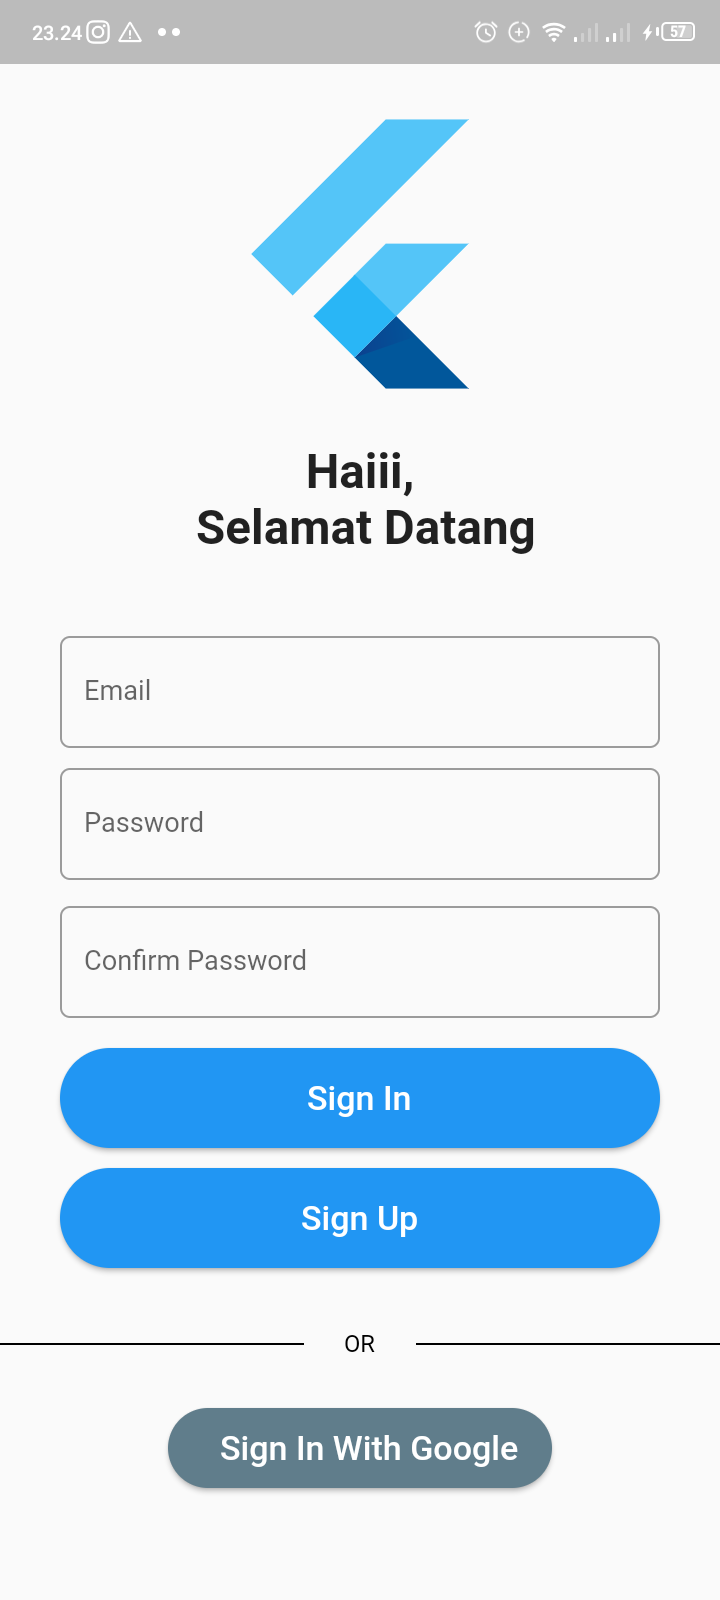
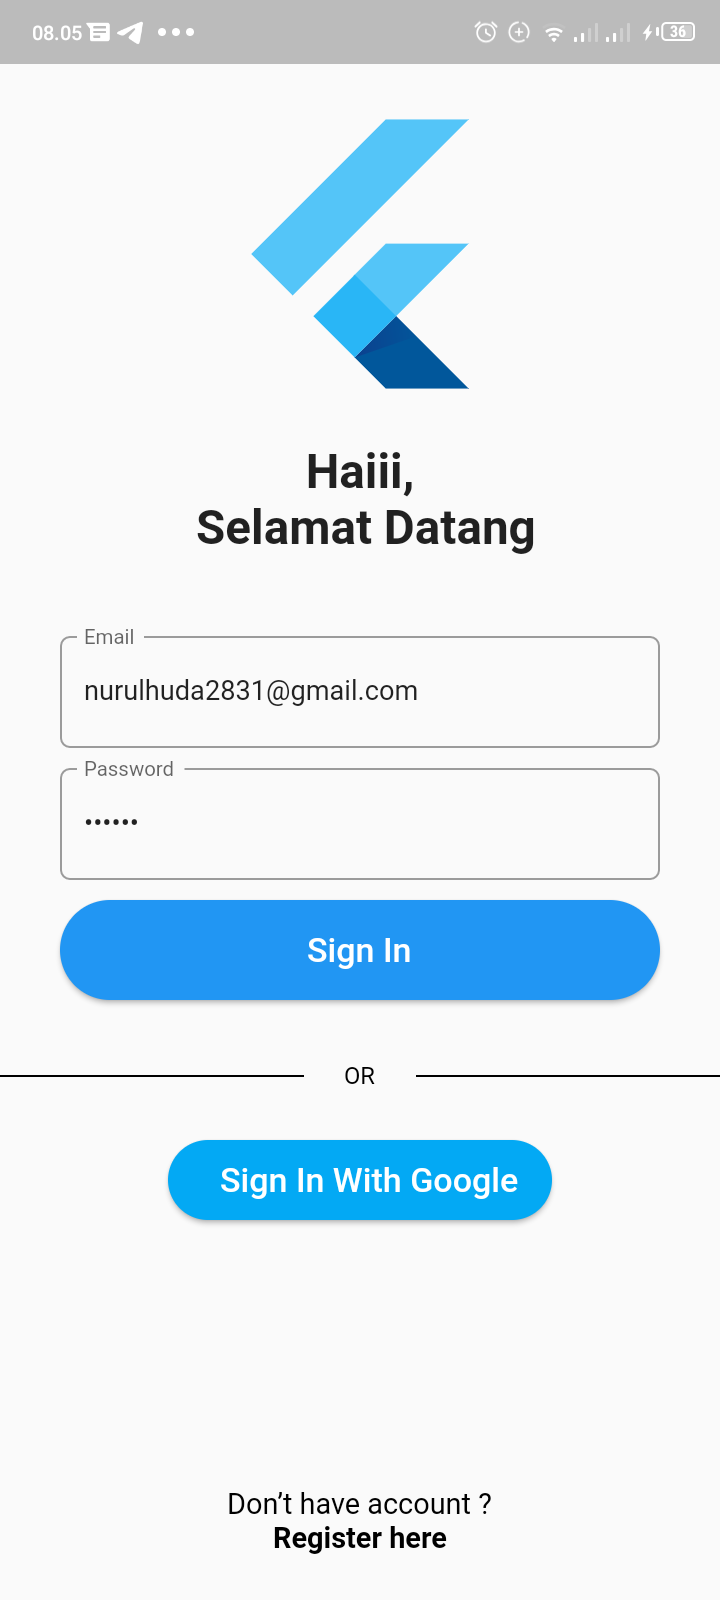
update assets

diff --git a/lib/register_page.dart b/lib/register_page.dart
@@ -1,0 +1,153 @@
+import 'package:firebase/login_page.dart';
+import 'package:flutter/material.dart';
+import 'package:firebase/auth.dart';
+import 'package:firebase/home_screen.dart';
+
+class RegisterPage extends StatefulWidget {
+  const RegisterPage({Key? key}) : super(key: key);
+
+  @override
+  State<RegisterPage> createState() => _RegisterPageState();
+}
+
+class _RegisterPageState extends State<RegisterPage> {
+  TextEditingController emailController = TextEditingController(text: "");
+  TextEditingController passwordController = TextEditingController(text: "");
+
+  @override
+  Widget build(BuildContext context) {
+    return Scaffold(
+      body: ListView(
+        children: [
+          Column(
+            mainAxisSize: MainAxisSize.max,
+            mainAxisAlignment: MainAxisAlignment.center,
+            children: <Widget>[
+              const SizedBox(height: 20),
+              const FlutterLogo(size: 150),
+              const SizedBox(height: 20),
+              const Text(
+                'Haiii,\n Selamat Datang',
+                textAlign: TextAlign.center,
+                style: TextStyle(fontSize: 28, fontWeight: FontWeight.bold),
+              ),
+              const SizedBox(height: 20),
+              Container(
+                alignment: Alignment.center,
+                margin: const EdgeInsets.only(left: 30, right: 30, top: 20),
+                child: TextFormField(
+                  decoration: InputDecoration(
+                    labelText: "Email",
+                    border: OutlineInputBorder(
+                        borderRadius: BorderRadius.circular(5.0)),
+                  ),
+                  controller: emailController,
+                ),
+              ),
+              Container(
+                alignment: Alignment.center,
+                margin: const EdgeInsets.only(
+                    left: 30, right: 30, top: 10, bottom: 10),
+                child: TextFormField(
+                  decoration: InputDecoration(
+                    labelText: "Password",
+                    border: OutlineInputBorder(
+                        borderRadius: BorderRadius.circular(5.0)),
+                  ),
+                  controller: passwordController,
+                  obscureText: true,
+                ),
+              ),
+              Container(
+                alignment: Alignment.center,
+                margin: const EdgeInsets.only(
+                    left: 30, right: 30, top: 3, bottom: 15),
+                child: TextFormField(
+                  decoration: InputDecoration(
+                    labelText: "Confirm Password",
+                    border: OutlineInputBorder(
+                        borderRadius: BorderRadius.circular(5.0)),
+                  ),
+                  controller: passwordController,
+                  obscureText: true,
+                ),
+              ),
+              Container(
+                alignment: Alignment.center,
+                margin: const EdgeInsets.only(left: 30, right: 30, bottom: 10),
+                child: ElevatedButton(
+                    child: const Text(
+                      "Sign Up",
+                      style: TextStyle(
+                        color: Colors.white,
+                        fontSize: 20,
+                      ),
+                    ),
+                    style: ElevatedButton.styleFrom(
+                      primary: Colors.blue,
+                      minimumSize: const Size(double.infinity, 50),
+                      shape: RoundedRectangleBorder(
+                        borderRadius: BorderRadius.circular(40),
+                      ),
+                    ),
+                    onPressed: () async {
+                      signUp(emailController.text, passwordController.text)
+                          .then((result) {
+                        if (result == null) {
+                          Navigator.pushReplacement(
+                              context,
+                              MaterialPageRoute(
+                                  builder: (context) => HomeScreen(
+                                        email: emailController.text,
+                                      )));
+                        } else {
+                          // ignore: deprecated_member_use
+                          Scaffold.of(context).showSnackBar(SnackBar(
+                            content: Text(
+                              result,
+                              style: const TextStyle(fontSize: 16),
+                            ),
+                          ));
+                        }
+                      });
+                    }),
+              ),
+              const SizedBox(height: 160),
+              Container(
+                alignment: Alignment.bottomCenter,
+                margin: const EdgeInsets.only(bottom: 20),
+                child: Column(
+                  mainAxisSize: MainAxisSize.min,
+                  children: <Widget>[
+                    const Text(
+                      'Already have account ?',
+                      style: TextStyle(
+                        color: Colors.black,
+                        fontSize: 17,
+                      ),
+                    ),
+                    GestureDetector(
+                      onTap: () {
+                        Navigator.push(
+                            context,
+                            MaterialPageRoute(
+                                builder: (context) => const LoginPage()));
+                      },
+                      child: const Text(
+                        'Login here',
+                        style: TextStyle(
+                            color: Colors.black,
+                            fontSize: 17,
+                            fontWeight: FontWeight.w700),
+                      ),
+                    ),
+                  ],
+                ),
+              ),
+            ],
+          ),
+        ],
+      ),
+    );
+  }
+}

diff --git a/lib/login_page.dart b/lib/login_page.dart
@@ -1,10 +1,11 @@
 // ignore_for_file: deprecated_member_use
 
-import 'package:flutter/material.dart';
 import 'package:firebase/auth.dart';
+import 'package:firebase/home_screen.dart';
+import 'package:firebase/register_page.dart';
+import 'package:flutter/material.dart';
 import 'package:firebase/sign_in.dart';
 import 'package:firebase/first_screen.dart';
-import 'package:firebase/home_screen.dart';
 
 class LoginPage extends StatefulWidget {
   const LoginPage({Key? key}) : super(key: key);
@@ -16,6 +17,7 @@ class LoginPage extends StatefulWidget {
 class _LoginPageState extends State<LoginPage> {
   TextEditingController emailController = TextEditingController(text: "");
   TextEditingController passwordController = TextEditingController(text: "");
+
   @override
   Widget build(BuildContext context) {
     return Scaffold(
@@ -61,20 +63,6 @@ class _LoginPageState extends State<LoginPage> {
             ),
             Container(
               alignment: Alignment.center,
-              margin: const EdgeInsets.only(
-                  left: 30, right: 30, top: 3, bottom: 15),
-              child: TextFormField(
-                decoration: InputDecoration(
-                  labelText: "Confirm Password",
-                  border: OutlineInputBorder(
-                      borderRadius: BorderRadius.circular(5.0)),
-                ),
-                controller: passwordController,
-                obscureText: true,
-              ),
-            ),
-            Container(
-              alignment: Alignment.center,
               margin: const EdgeInsets.only(left: 30, right: 30, bottom: 10),
               child: ElevatedButton(
                   child: const Text(
@@ -92,7 +80,7 @@ class _LoginPageState extends State<LoginPage> {
                     ),
                   ),
                   onPressed: () async {
-                    await signIn(emailController.text, passwordController.text)
+                    signIn(emailController.text, passwordController.text)
                         .then((result) {
                       if (result == null) {
                         Navigator.pushReplacement(
@@ -101,45 +89,7 @@ class _LoginPageState extends State<LoginPage> {
                                 builder: (context) => HomeScreen(
                                       email: emailController.text,
                                     )));
-                      } else {
-                        Scaffold.of(context).showSnackBar(SnackBar(
-                          content: Text(
-                            result,
-                            style: const TextStyle(fontSize: 16),
-                          ),
-                        ));
-                      }
-                    });
-                  }),
-            ),
-            Container(
-              alignment: Alignment.center,
-              margin: const EdgeInsets.only(left: 30, right: 30, bottom: 10),
-              child: ElevatedButton(
-                  child: const Text(
-                    "Sign Up",
-                    style: TextStyle(
-                      color: Colors.white,
-                      fontSize: 20,
-                    ),
-                  ),
-                  style: ElevatedButton.styleFrom(
-                    primary: Colors.blue,
-                    minimumSize: const Size(double.infinity, 50),
-                    shape: RoundedRectangleBorder(
-                      borderRadius: BorderRadius.circular(40),
-                    ),
-                  ),
-                  onPressed: () async {
-                    signUp(emailController.text, passwordController.text)
-                        .then((result) {
-                      if (result == null) {
-                        Navigator.pushReplacement(
-                            context,
-                            MaterialPageRoute(
-                                builder: (context) => HomeScreen(
-                                      email: emailController.text,
-                                    )));
+                        // ignore: duplicate_ignore
                       } else {
                         Scaffold.of(context).showSnackBar(SnackBar(
                           content: Text(
@@ -173,6 +123,38 @@ class _LoginPageState extends State<LoginPage> {
             ),
             const SizedBox(height: 20),
             _signInButton(),
+            const SizedBox(height: 130),
+            Container(
+              alignment: Alignment.bottomCenter,
+              margin: const EdgeInsets.only(bottom: 20),
+              child: Column(
+                mainAxisSize: MainAxisSize.min,
+                children: <Widget>[
+                  const Text(
+                    'Don’t have account ?',
+                    style: TextStyle(
+                      color: Colors.black,
+                      fontSize: 17,
+                    ),
+                  ),
+                  GestureDetector(
+                    onTap: () {
+                      Navigator.push(
+                          context,
+                          MaterialPageRoute(
+                              builder: (context) => const RegisterPage()));
+                    },
+                    child: const Text(
+                      'Register here',
+                      style: TextStyle(
+                          color: Colors.black,
+                          fontSize: 17,
+                          fontWeight: FontWeight.w700),
+                    ),
+                  ),
+                ],
+              ),
+            ),
           ],
         ),
       ]),
@@ -181,7 +163,7 @@ class _LoginPageState extends State<LoginPage> {
 
   Widget _signInButton() {
     return RaisedButton(
-      color: Colors.blueGrey,
+      color: Colors.lightBlue,
       onPressed: () {
         signInWithGoogle().then((result) {
           if (result != null) {
